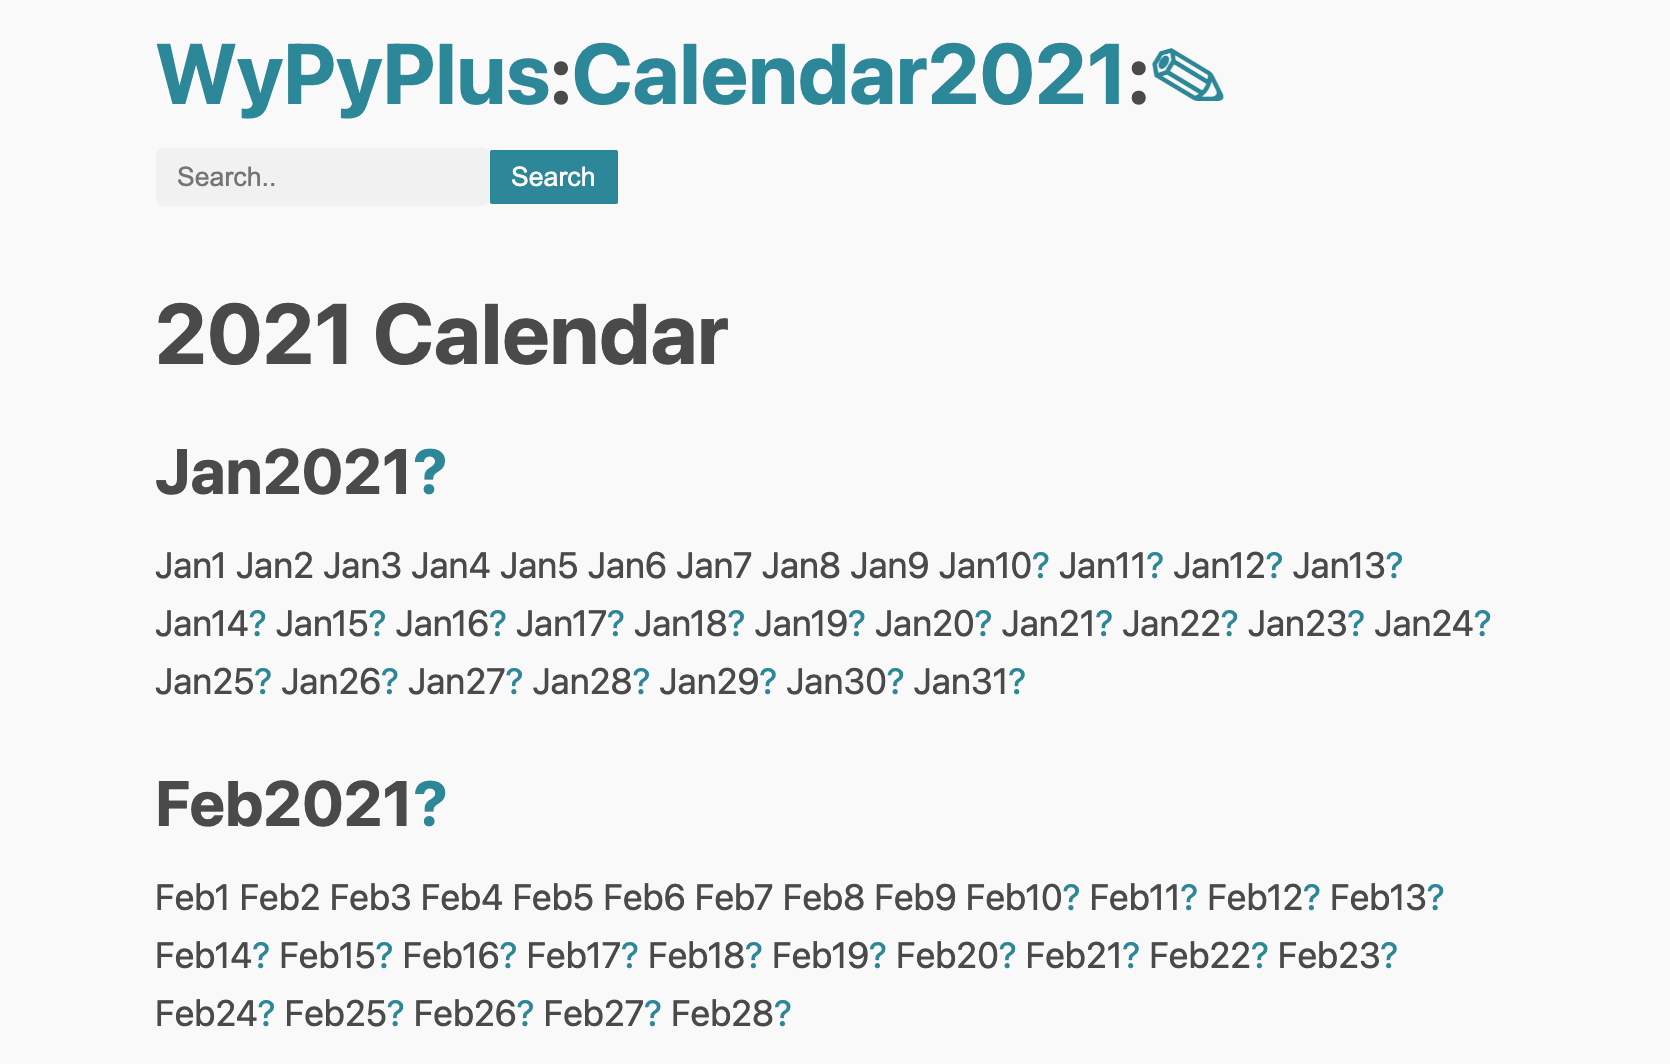
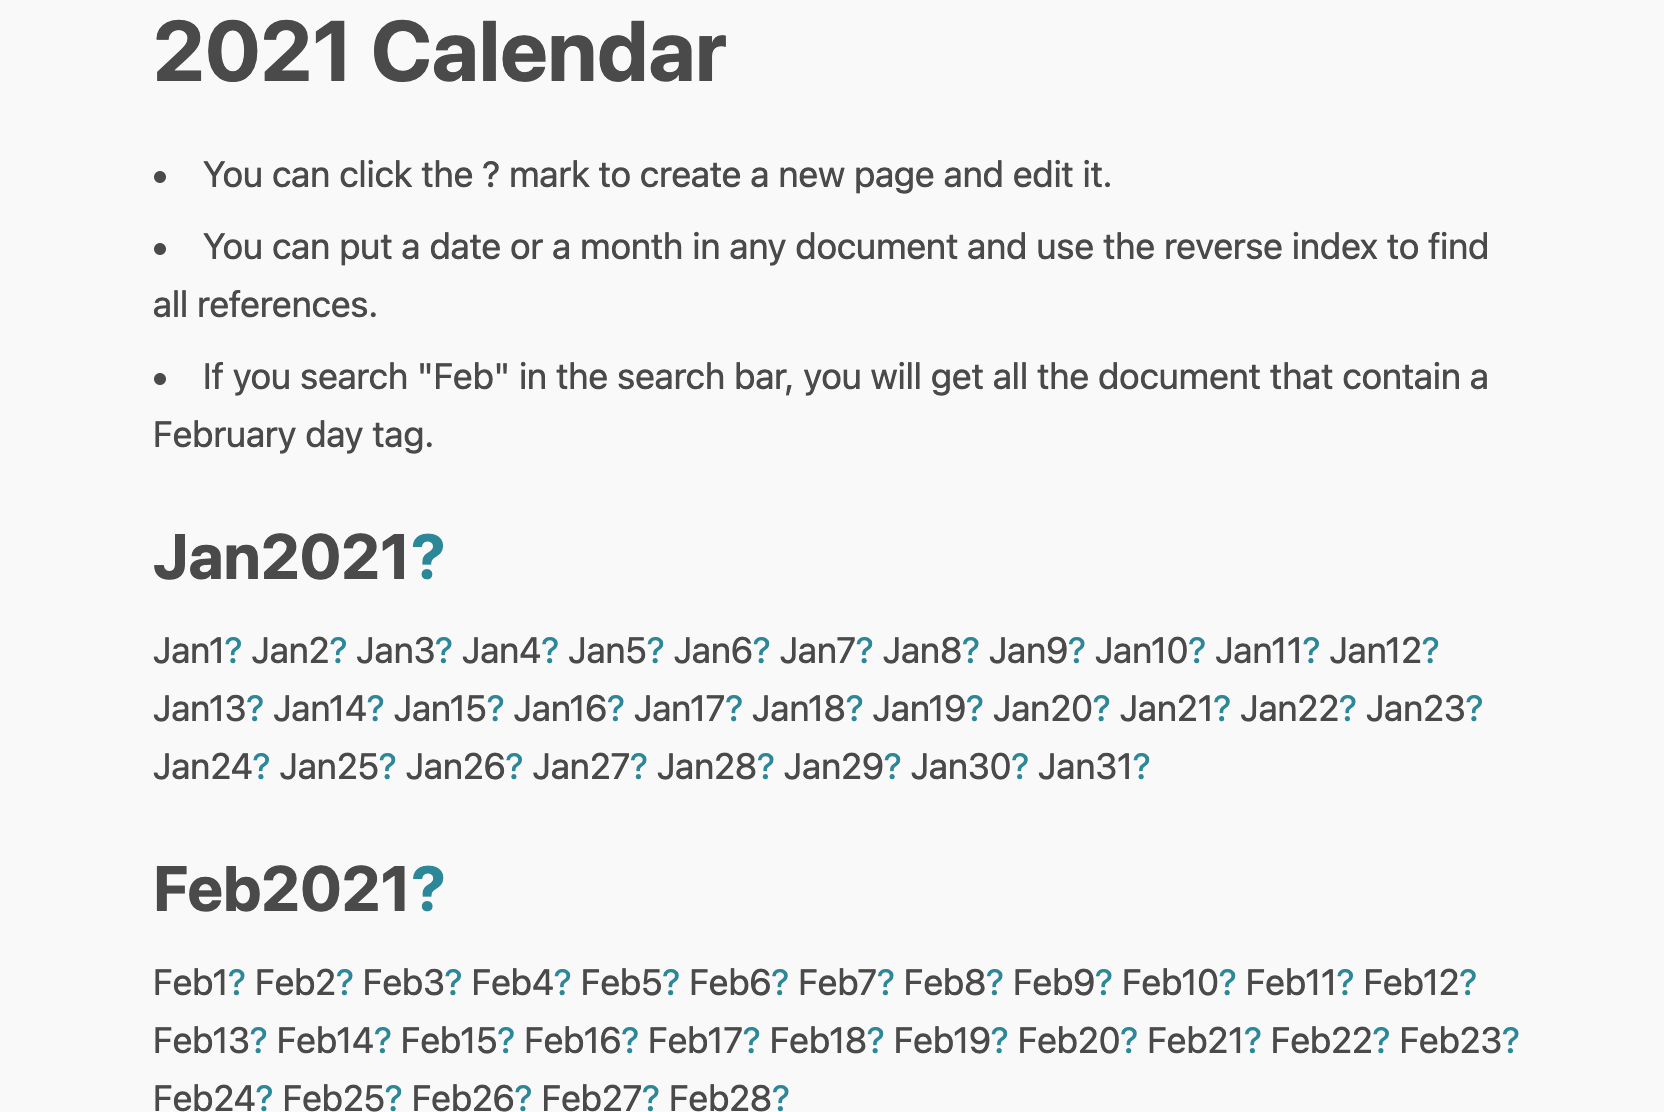
Update date matching logic

Changed region(s): [[0.0938, 0.0, 0.9062, 1.0]]

diff --git a/cgi-bin/wypyplus.py b/cgi-bin/wypyplus.py
@@ -5,7 +5,7 @@ from datetime import timedelta as td,datetime as dt;q,x,h,w=cgi.escape,os.path.e
 load,t=lambda n:(x('w/'+n) and open('w/'+n).read()) or '','</textarea>'
 f,i=cgi.FormContent(),'put type';y=f.get('p',[''])[0];y=('WyPyPlus',y)[y.isalnum()]
 fs,do,main=lambda s:re.sub('^ #', '#',reduce(lambda s,r:re.sub('(?m)'+r[0],r[1],s),(('\r',''),(\
-'(^|[^=/\-_A-Za-z0-9?])([A-Z][a-z]+([A-Z0-9][a-z0-9]+){1,})',lambda m:(m.group(1)+'%s'+h+w+m.group(2)+\
+'(^|[^=/\-_A-Za-z0-9?])([A-Z][a-z]+([A-Z0-9][a-z0-9]*){1,})',lambda m:(m.group(1)+'%s'+h+w+m.group(2)+\
 '%s>%s</a>')%((m.group(2),'&amp;q=e','?'),('','',m.group(2)))[x('w/'+m.group(2))]),\
 ('^\{\{$','\n<ul>'),('^\* ','<li>'),('^}}$','</ul>'),('^---$','<hr>'),(pre,'<pre>\g<1></pre>'),
 ('^# (.*)$','<h1>\g<1></h1>'),('^## (.*)$', '<h2>\g<1></h2>'),('^### (.*)$','<h3>\g<1></h3>'),('\*\*(.*)\*\*','<b>\g<1></b>'),
